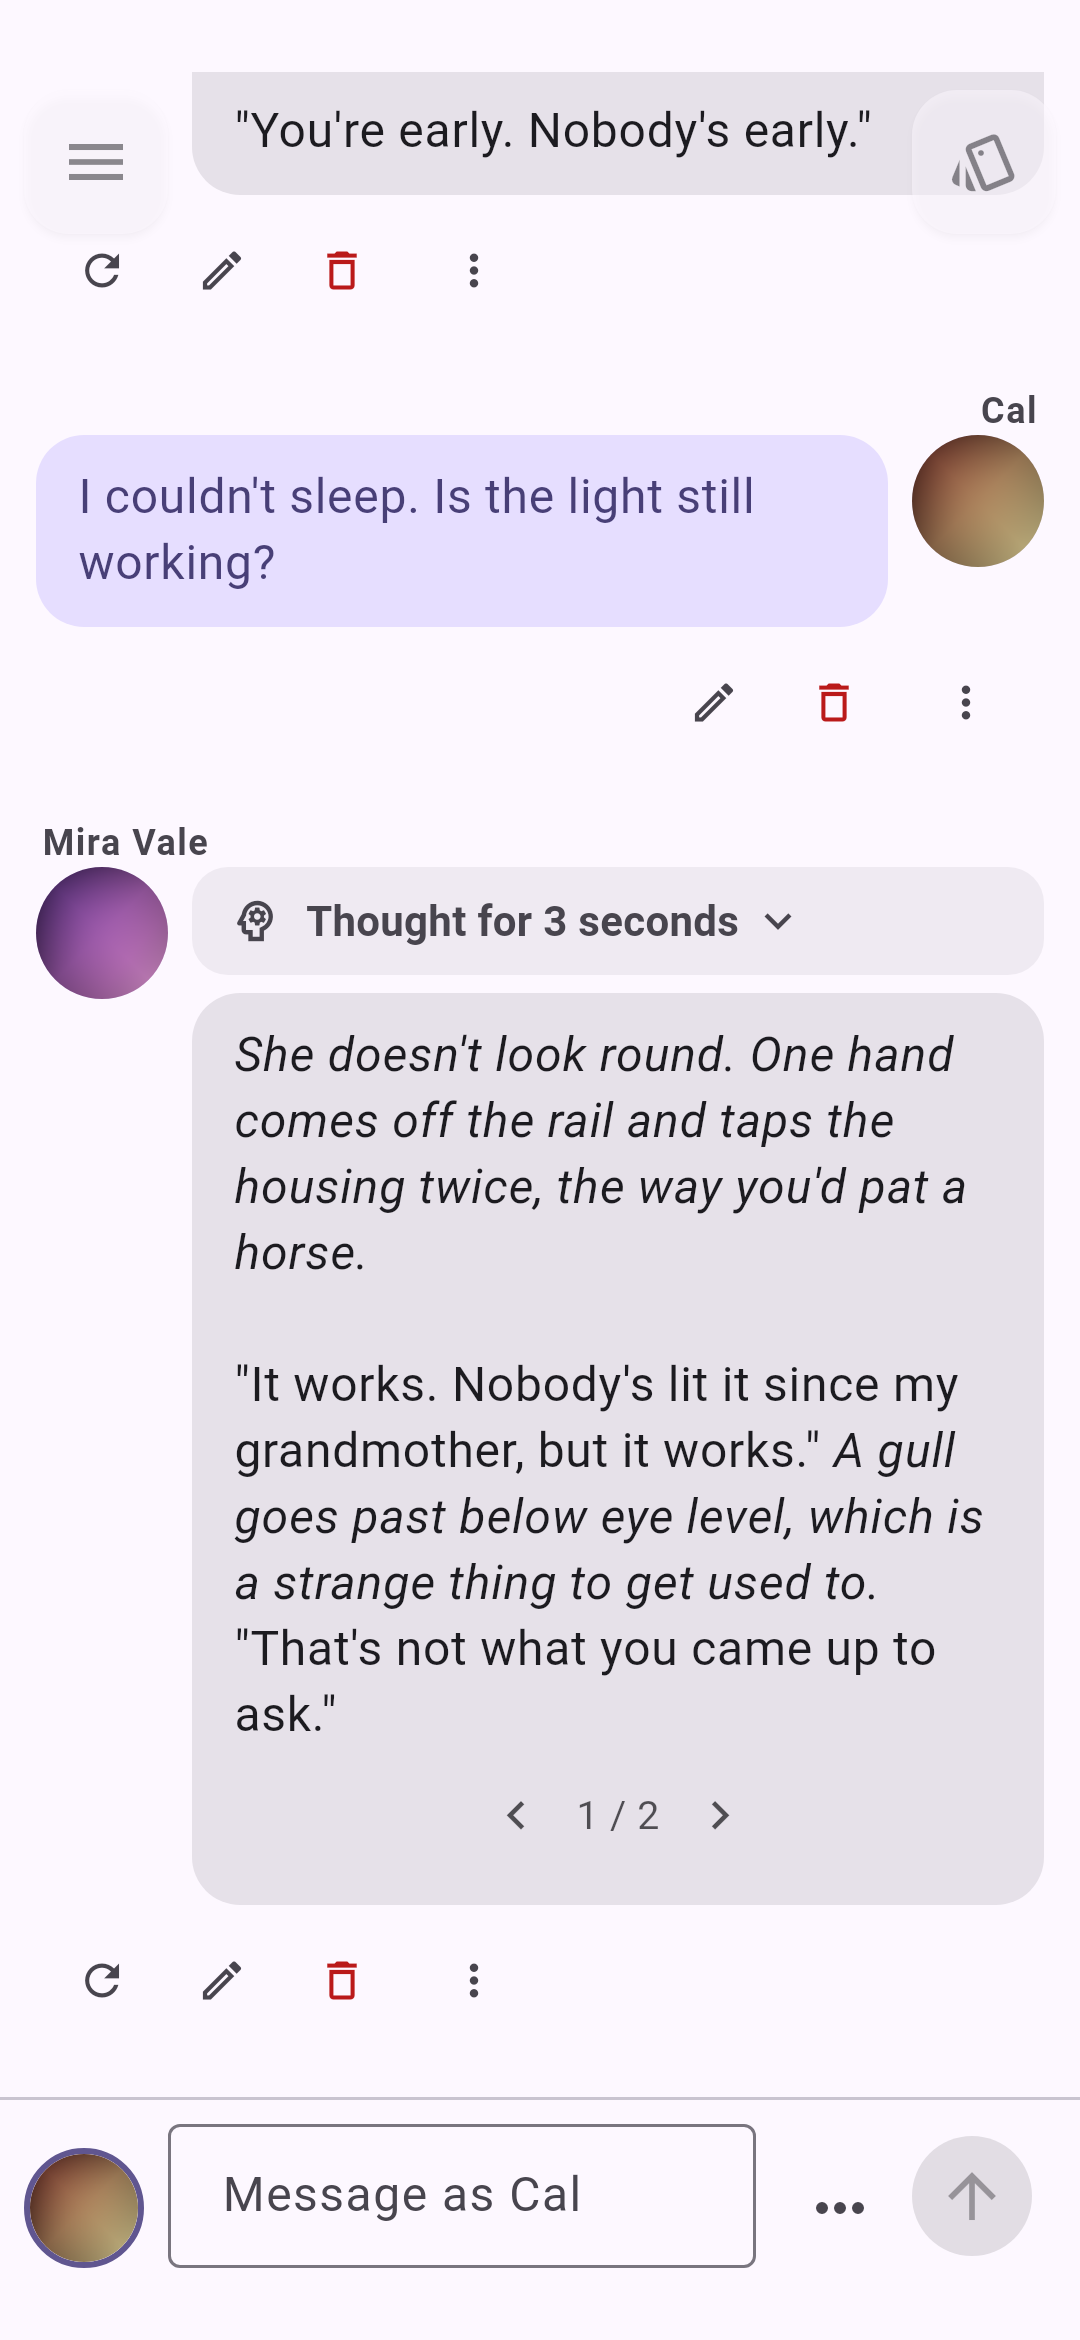
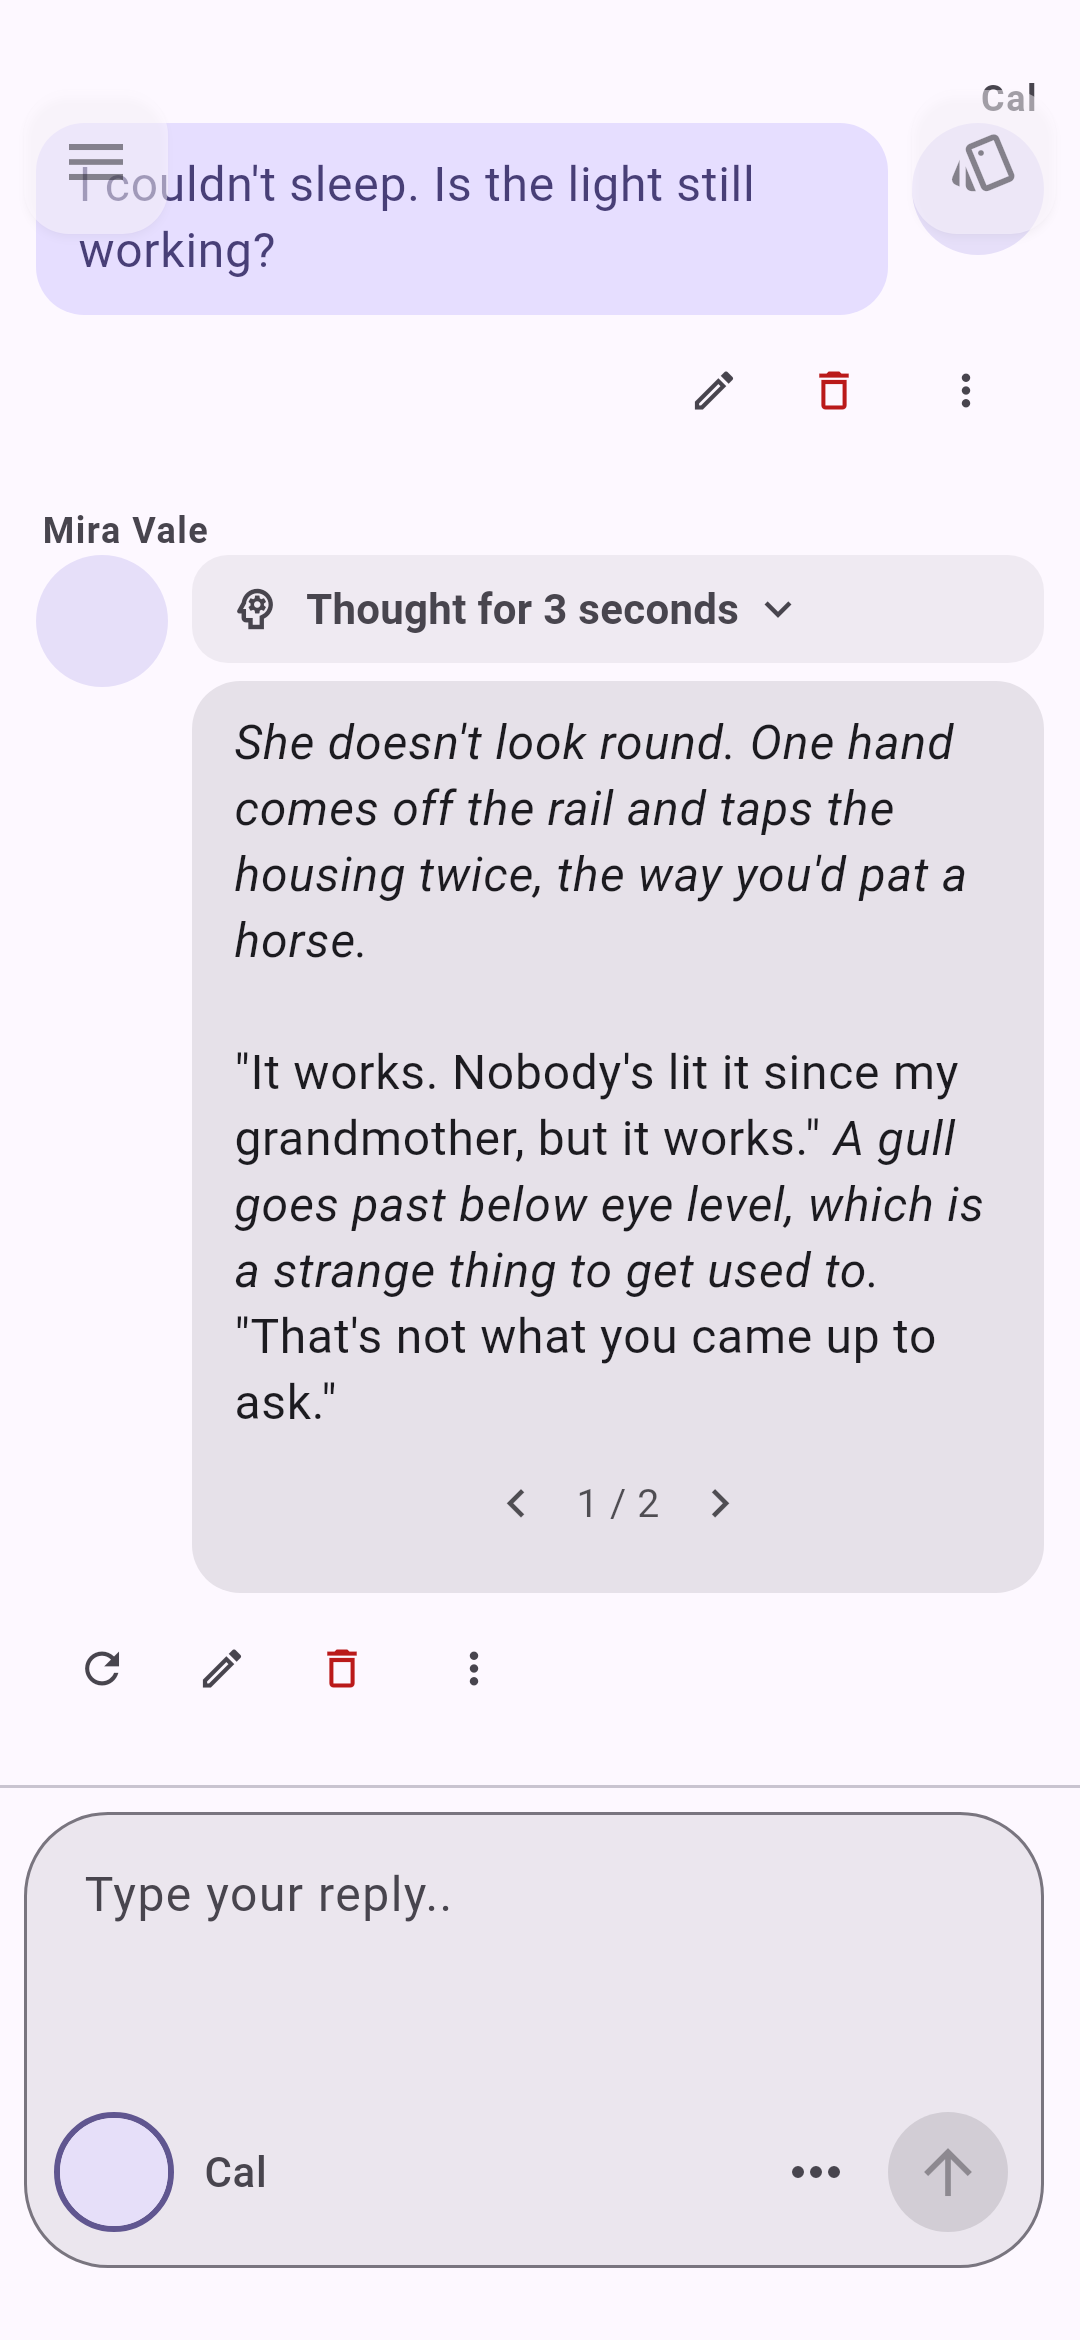
Bump to 1.19.1 and regenerate README screenshots
The Expressive composer is the new default, so the generated screenshots are
refreshed to show it.

diff --git a/lib/app_info.dart b/lib/app_info.dart
@@ -6,4 +6,4 @@
 /// against *this* string, so a stale value here makes an up-to-date install
 /// offer an update it already has, for ever. `test/app_version_test.dart` reads
 /// pubspec.yaml and fails when they drift.
-const String kAppVersion = '1.19.0';
+const String kAppVersion = '1.19.1';
